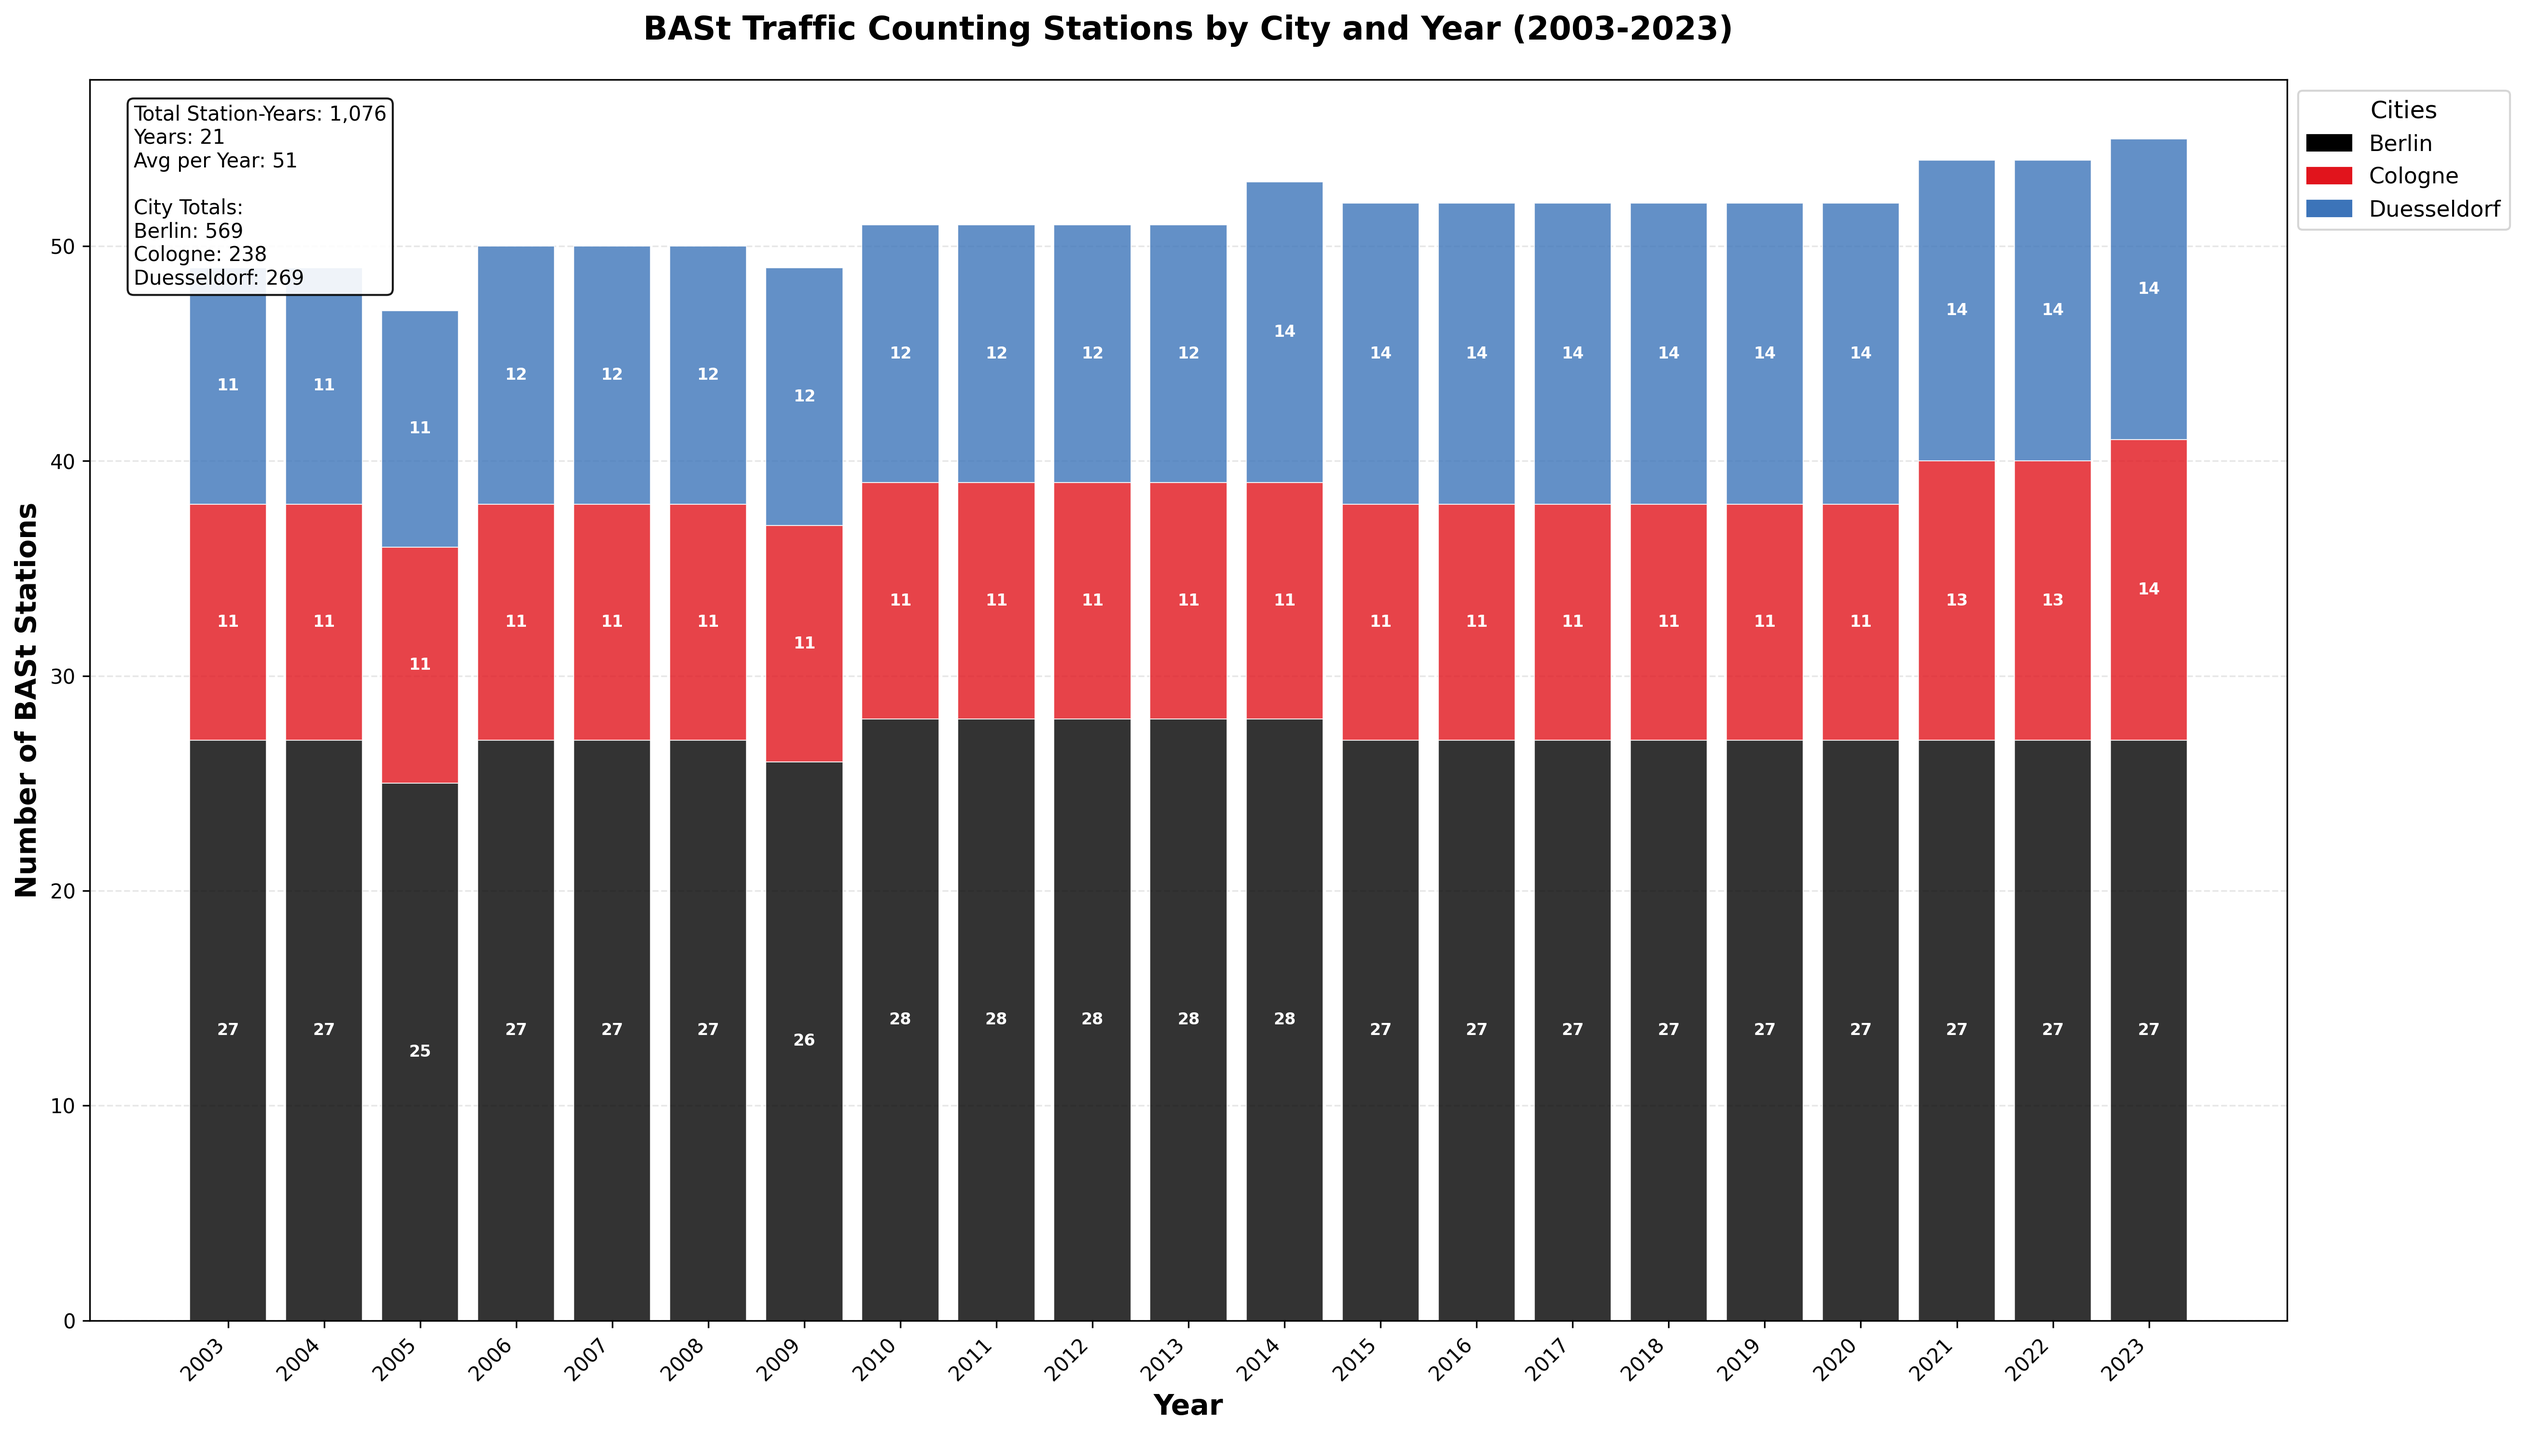
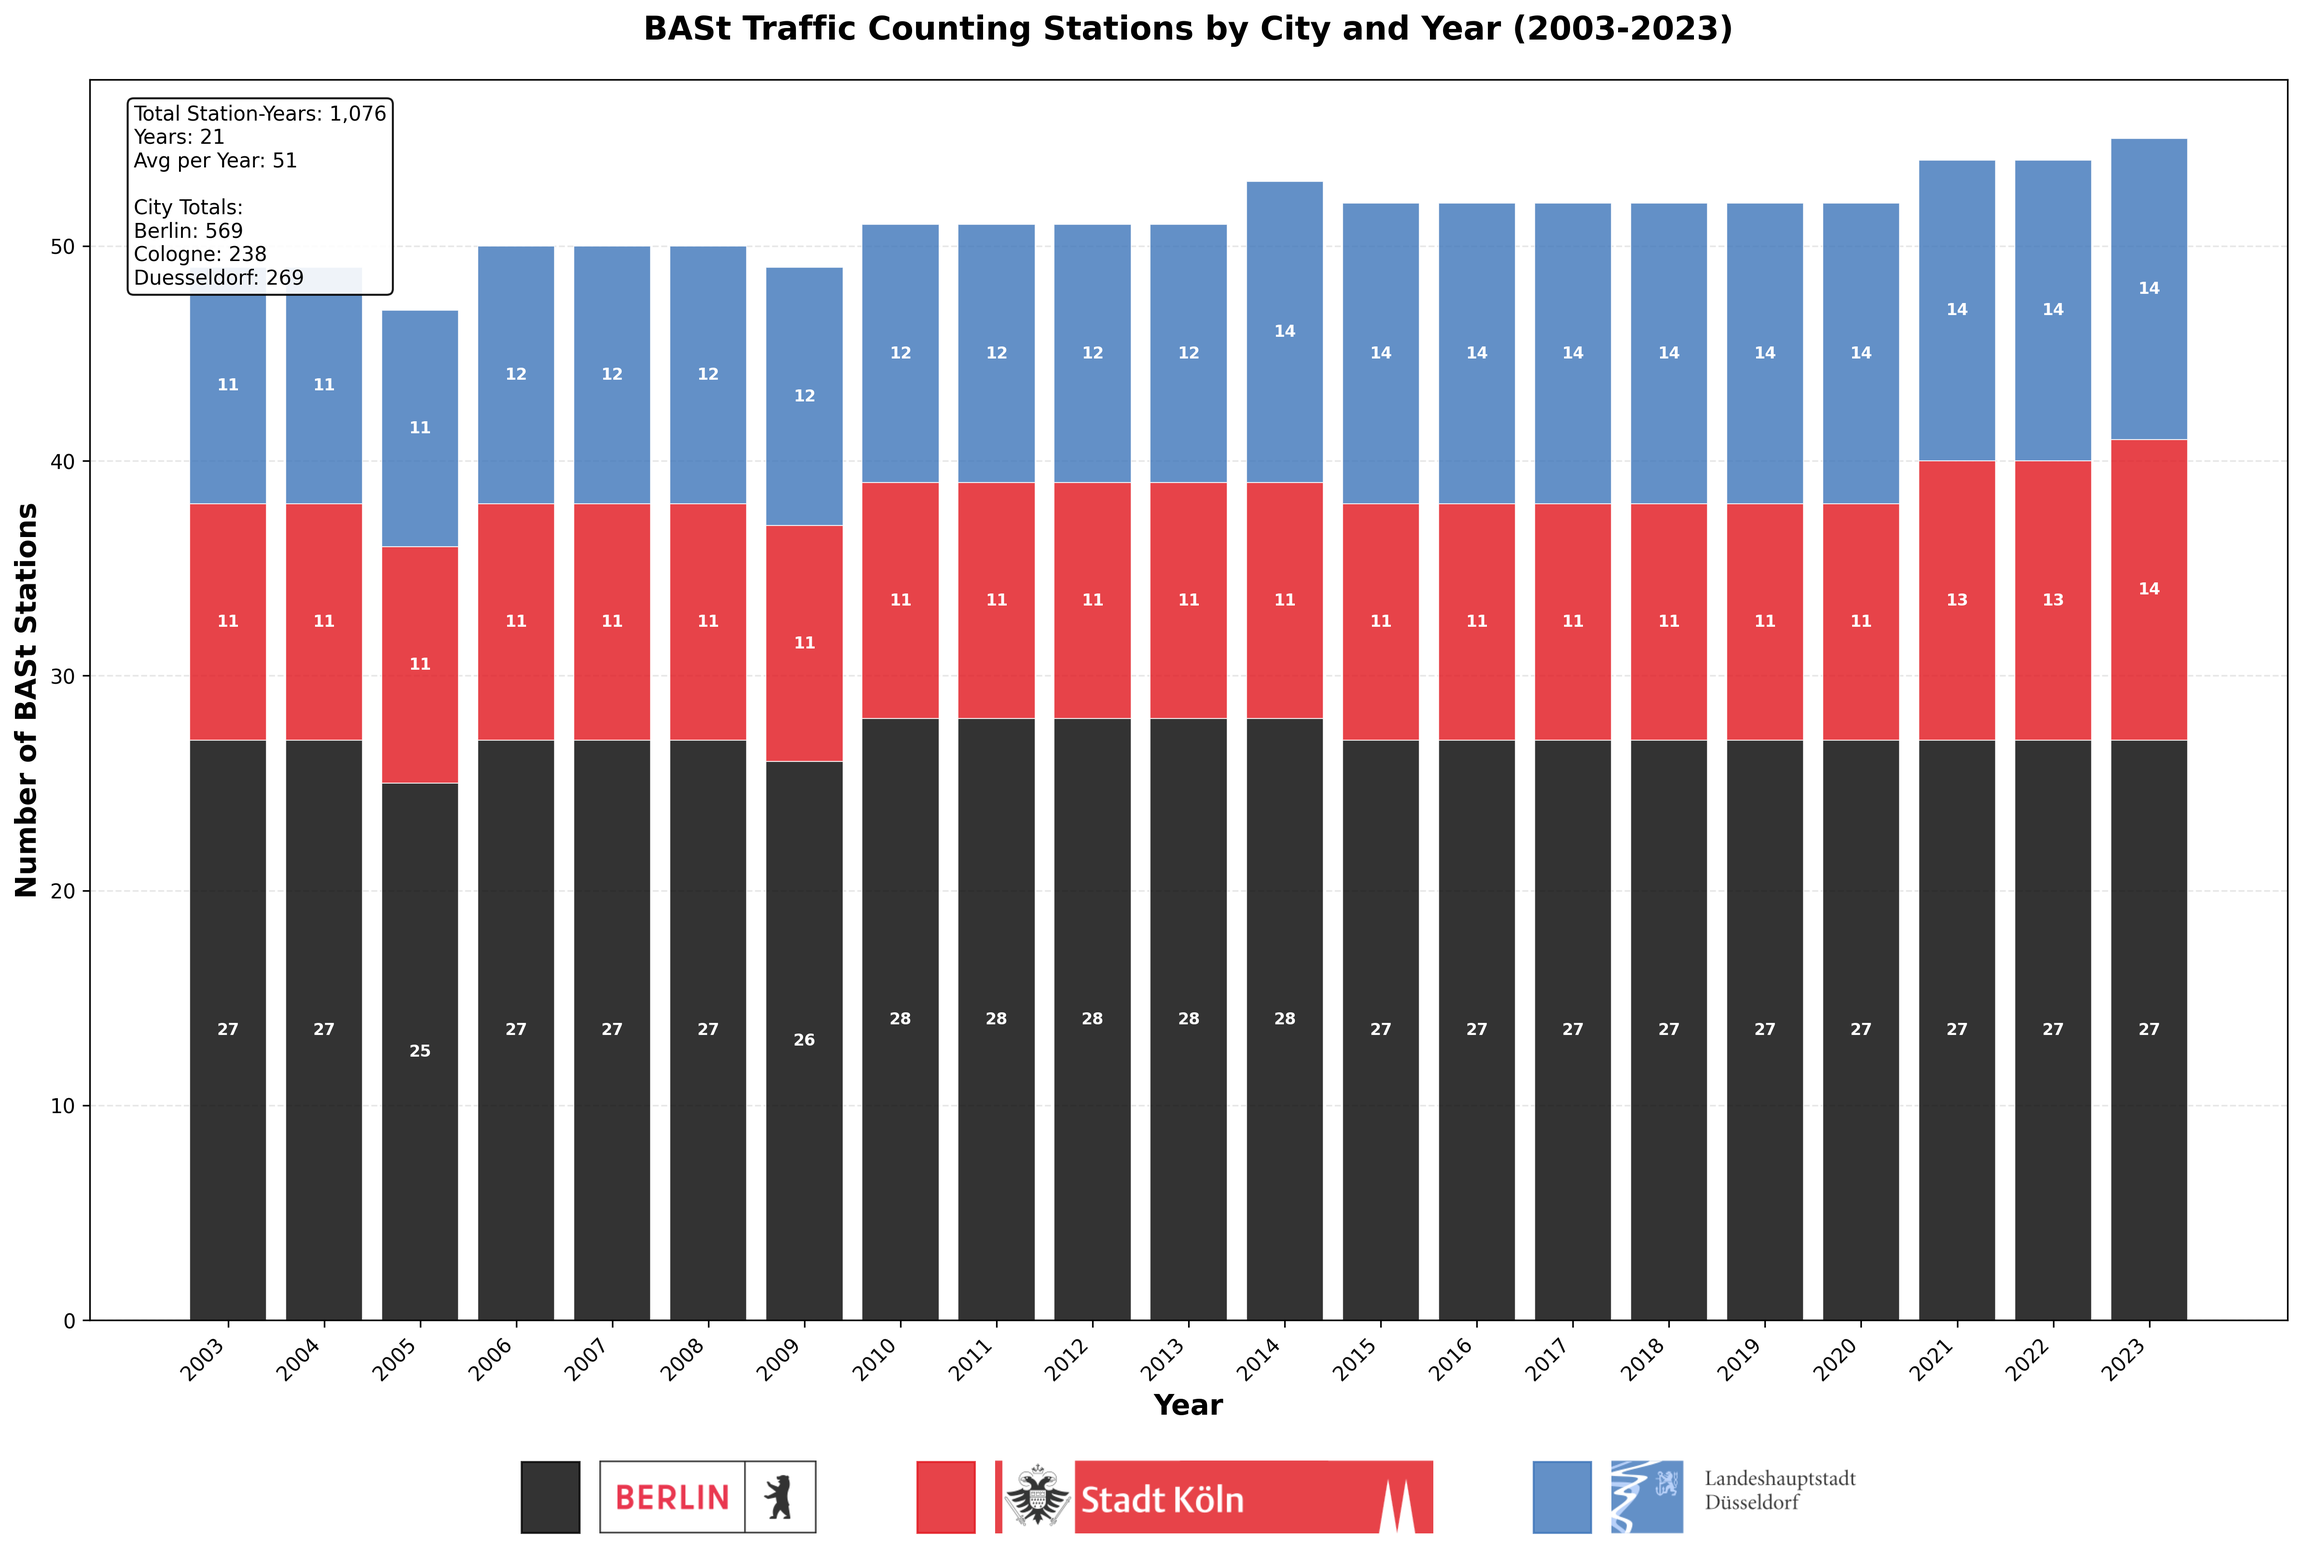
fix: create BASt Stations

diff --git a/Helpers/04_DrawBastLocationsByCity.py b/Helpers/04_DrawBastLocationsByCity.py
@@ -4,8 +4,11 @@ import numpy as np
 import warnings
 import os
 from pathlib import Path
+import matplotlib.image as mpimg
 
 from matplotlib.patches import Rectangle
+from matplotlib.offsetbox import OffsetImage, AnnotationBbox, AuxTransformBox, VPacker, HPacker, TextArea
+from mpl_toolkits.axes_grid1.anchored_artists import AnchoredOffsetbox
 warnings.filterwarnings('ignore')
 
 def create_city_year_stacked_bar():
@@ -121,7 +124,6 @@ def create_city_year_stacked_bar():
     
     # Create custom legend with colors and logos
     from matplotlib.patches import Patch
-    from matplotlib.offsetbox import OffsetImage, AnnotationBbox
     
     # Check for existing PNG logo files
     logo_png_files = {}
@@ -134,65 +136,26 @@ def create_city_year_stacked_bar():
         else:
             print(f"PNG logo not found: {png_path}")
     
-    # Load PNG logos for legend
-    def load_png_logo(png_path):
-        """Load PNG logo as numpy array"""
-        try:
-            import matplotlib.image as mpimg
-            return mpimg.imread(png_path)
-        except Exception as e:
-            print(f"Error loading PNG {png_path}: {e}")
-            return None
-    
-    # Create simple legend for main plot with logos
-    legend_handles = []
-    legend_labels = []
-    
-    for city in cities:
-        color = city_colors.get(city, '#1f77b4')
-        legend_patch = Patch(color=color, label=city.title())
-        legend_handles.append(legend_patch)
-        legend_labels.append(city.title())
-    
-    # Add legend to main plot
-    ax.legend(handles=legend_handles, labels=legend_labels, title='Cities', title_fontsize=12, fontsize=11, 
-             loc='upper left', bbox_to_anchor=(1, 1))
-    
     # Create a separate legend with logos
-    logo_fig, logo_ax = plt.subplots(figsize=(10, 3))
-    logo_ax.axis('off')
+    boxes = []
+    for city in cities:
+        # Bar
+        bar_box = AuxTransformBox(ax.transData)
+        bar_patch = Rectangle((0,0), 0.6, 3.3, color=city_colors[city], alpha=0.8)
+        bar_box.add_artist(bar_patch)
+        # Logo
+        if city in logo_png_files:
+            img = mpimg.imread(logo_png_files[city])
+            logo_box = OffsetImage(img, zoom=0.45, alpha=0.8)
+        else:
+            logo_box = TextArea(city.title())
+        # Combine bar and logo
+        pair = HPacker(children=[bar_box, logo_box], align='center', pad=0, sep=10)
+        boxes.append(pair)
     
-    # Position logos horizontally
-    logo_width = 0.25
-    spacing = 0.33
-    
-    for i, city in enumerate(cities):
-        color = city_colors.get(city, '#1f77b4')
-        x_pos = 0.05 + i * spacing
-        
-        # Create color patch
-        logo_ax.add_patch(Rectangle((x_pos, 0.3), logo_width, 0.4, color=color, edgecolor='black', linewidth=2))
-        
-        # Try to load and add logo
-        png_path = logo_png_files.get(city)
-        if png_path:
-            img_array = load_png_logo(png_path)
-            if img_array is not None:
-                # Add logo above color patch
-                logo_box = OffsetImage(img_array, zoom=0.3)
-                ab = AnnotationBbox(logo_box, (x_pos + logo_width/2, 0.8), 
-                                  frameon=False, box_alignment=(0.5, 0.5))
-                logo_ax.add_artist(ab)
-        
-        # Add city name below color patch
-        logo_ax.text(x_pos + logo_width/2, 0.15, city.title(), 
-                    fontsize=14, va='center', ha='center', fontweight='bold')
-    
-    # Save logo legend
-    logo_legend_file = graphs_dir / 'city_logo_legend.png'
-    logo_fig.savefig(logo_legend_file, dpi=300, bbox_inches='tight', transparent=True)
-    plt.close(logo_fig)
-    print(f"Logo legend saved to: {logo_legend_file}")
+    legend_box = HPacker(children=boxes, align='center', pad=0, sep=50)
+    anchored_box = AnchoredOffsetbox(loc='lower center', child=legend_box, pad=0.5, frameon=False, bbox_to_anchor=(0.5, -0.18), bbox_transform=ax.transAxes, borderpad=0.)
+    ax.add_artist(anchored_box)
     
     # Add some statistics as text
     total_stations = len(df)
